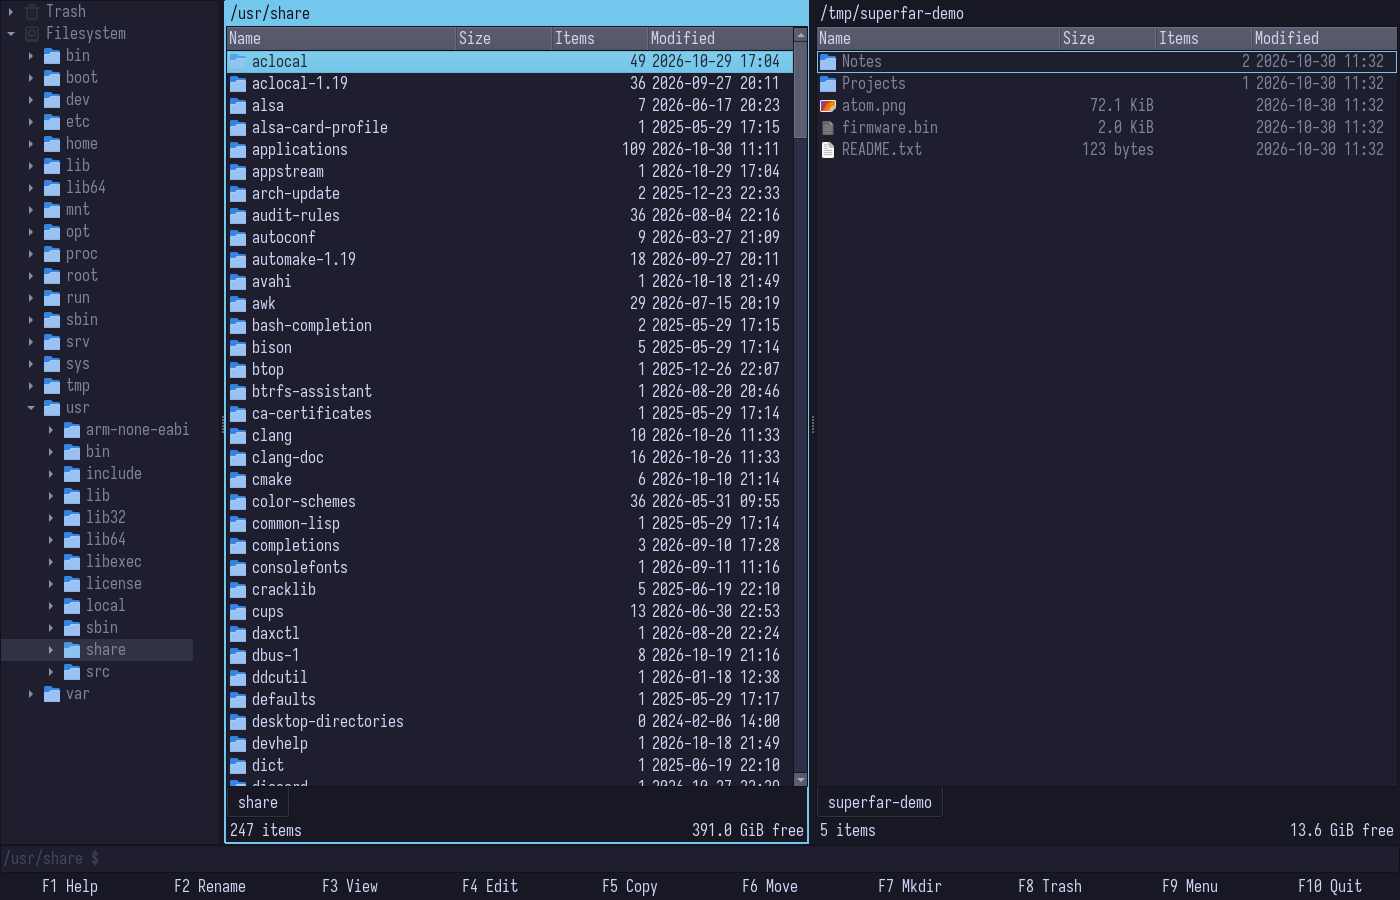
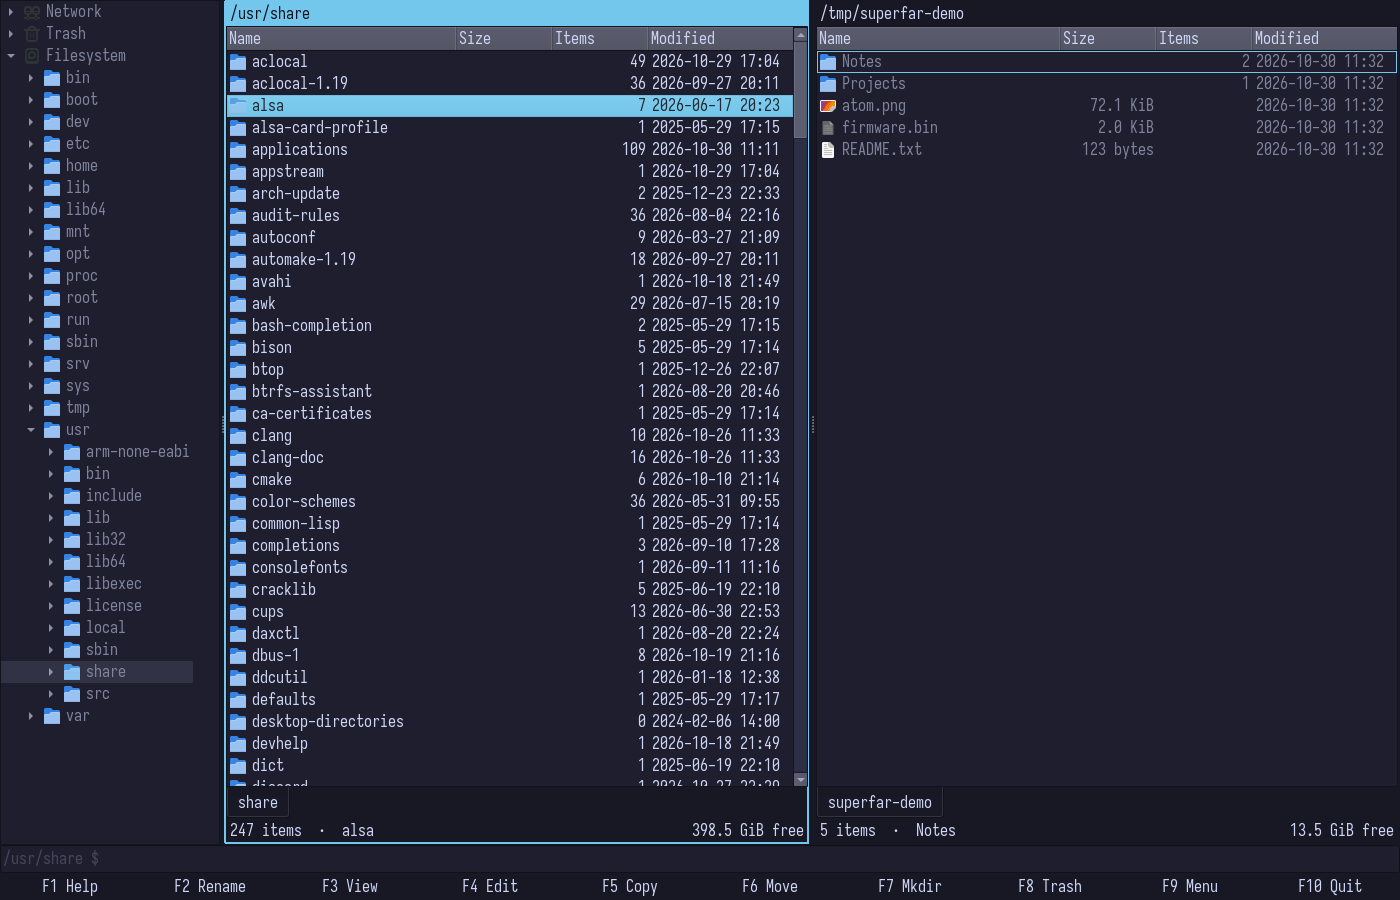
README: screenshots of the panels from milestones 8 to 12
Claude-Session: https://claude.ai/code/session_01KxLwQuifZ4kmM58da464kf

diff --git a/README.md b/README.md
@@ -55,6 +55,27 @@ Folder history on Ctrl+G, ranked by frecency:
 
 ![Go to](docs/screenshots/go-to.png)
 
+Multi-rename on Shift+F2, with the clashes called out before anything
+is renamed:
+
+![Multi-rename](docs/screenshots/multi-rename.png)
+
+Folder sync on Shift+F5, comparing the two panes:
+
+![Folder sync](docs/screenshots/folder-sync.png)
+
+An archive opened as a folder, with its tab named after it:
+
+![Archive](docs/screenshots/archive.png)
+
+Find in tree on Alt+F7, results in a tab:
+
+![Find](docs/screenshots/find.png)
+
+Thumbnails on Ctrl+F4, from tumbler through the freedesktop cache:
+
+![Thumbnails](docs/screenshots/thumbnails.png)
+
 ## Keys
 
 F1 shows the full table inside the window, with whatever you have
@@ -102,8 +123,8 @@ ctest --test-dir build
 build/src/app/superfar [left-folder [right-folder]]
 ```
 
-`cmake --install build --prefix ~/.local` installs the binary and the
-desktop entry. To make it the default for folders:
+`cmake --install build --prefix ~/.local` installs the binary, the
+desktop entry and the icon. To make it the default for folders:
 
 ```sh
 xdg-mime default superfar.desktop inode/directory
